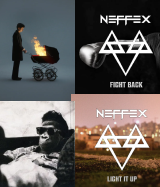
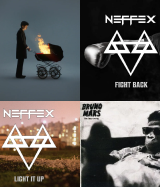
adding music to bento

diff --git a/src/components/Bento.jsx b/src/components/Bento.jsx
@@ -9,17 +9,14 @@ function Bento() {
 
     const { isOpen, setIsOpen } = useModal();
     // const { isCopied, setIsCopied } = useState(false);
-    const [music, setMusic] = useState('');
 
+    const [music, setMusic] = useState('');
+    let [musicIndex, setMusicIndex] = useState(0);
     const handleMusic = () => {
-        // for (let i = 0; i <= musicArray.length; i++) {
-        //     setMusic(musicArray[i]);
-        //     console.log(music);
-        // }
-        let i = 0;
-        setMusic(musicArray[i]);
-        console.log(music)
-        i = i + 1;
+        let next = musicIndex + 1;
+        if (next > musicArray.length - 1) next = 0;
+        setMusicIndex(next);
+        setMusic(musicArray[next]);
     }
 
     const handleCopy = (text) => {
@@ -78,7 +75,7 @@ function Bento() {
             {/* Music */}
             <div className='css-music flex flex-col justify-center items-center'>
                 <div>
-                    <a onClick={handleMusic}>
+                    <a onClick={handleMusic} href={music} target='_blank'>
                         <img src="music/music.png" className='rounded-xl w-40' />
                     </a>
                 </div>
